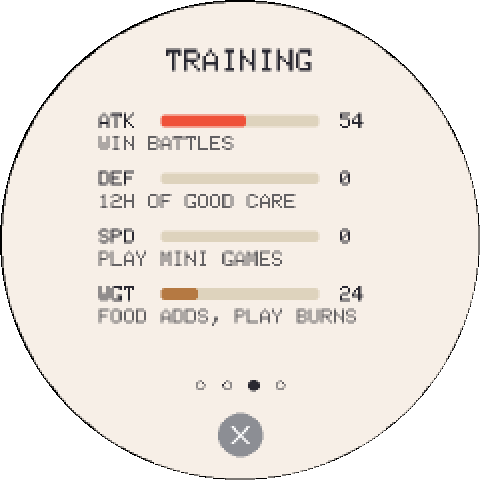
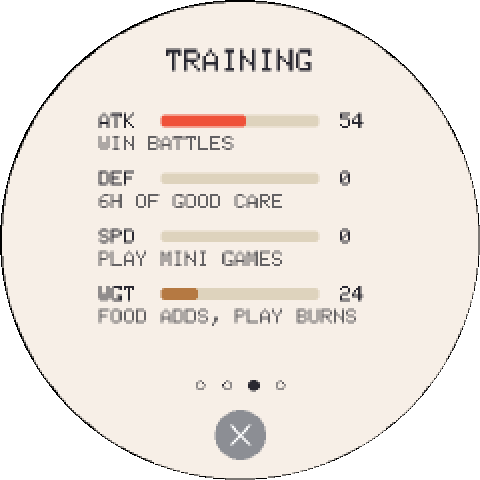
Defense training is fairer: every 6 hours of good care, sleep included
+1 defense every 6 hours of good care instead of 12 awake hours in a row.
Hours asleep count, a need may dip under 40 for up to 15 awake minutes
before the streak starts over, time away counts the same way, and the
streak is saved, so a restart or an update no longer wipes it. Tests for
each rule; the Training page and the docs say 6 hours.

diff --git a/i18n.cpp b/i18n.cpp
@@ -43,7 +43,7 @@ static const char *const STRINGS[LANG_COUNT][STR_COUNT] = {
     "BUSCAR ACTUALIZACION", "Ya est\240 al d\241a", "ACTUALIZAR A v%s", "Actualizando %u%%", "Fall\242 la actualizaci\242n", "%u amigos aqu\241!",
     "Jugar", "Jugar juntos", "Duelo: Qui\202n es?", "%s quiere jugar!", "Prep\240rate...", "T\243", "Lo tienes!", "%s lo tiene!", "Nadie acert\242", "Ganaste!", "Gana %s!", "Empate!", "%s se escap\242!", "Voley Poke Ball", "Tu saque!", "Punto!", "Punto para %s!", "Inclina o arrastra",
     "ZONAS %d/%d", "%s variocolor!",
-    "ENTRENO FUE AL MAXIMO", "ENTRENO", "GANA COMBATES", "12H DE BUEN CUIDADO", "MINIJUEGOS", "COMER SUMA, JUGAR QUEMA",
+    "ENTRENO FUE AL MAXIMO", "ENTRENO", "GANA COMBATES", "6H DE BUEN CUIDADO", "MINIJUEGOS", "COMER SUMA, JUGAR QUEMA",
     "BONUS DE GRUPO", "GASTO ENERGIA", "%u MIN", "PS", "%s trajo un caramelo!", "Para despedirte luego,", "manten pulsado tu Pokemon.",
     "No pudiste huir!",
   },
@@ -83,7 +83,7 @@ static const char *const STRINGS[LANG_COUNT][STR_COUNT] = {
     "CHECK FOR UPDATE", "Up to date", "UPDATE TO v%s", "Updating %u%%", "Update failed", "%u buddies are here!",
     "Play", "Play together", "Who's That? Showdown", "%s wants to play!", "Get ready...", "You", "You got it!", "%s got it!", "Nobody got it", "You win!", "%s wins!", "It's a draw!", "%s got away!", "Poke Ball Volley", "Your serve!", "Point!", "%s scores!", "Tilt or drag to move",
     "ZONES %d/%d", "Shiny %s!",
-    "ATK TRAINING MAXED", "TRAINING", "WIN BATTLES", "12H OF GOOD CARE", "PLAY MINI GAMES", "FOOD ADDS, PLAY BURNS",
+    "ATK TRAINING MAXED", "TRAINING", "WIN BATTLES", "6H OF GOOD CARE", "PLAY MINI GAMES", "FOOD ADDS, PLAY BURNS",
     "PARTY BOOST", "ENERGY DRAIN", "%u MIN", "HP", "%s brought a candy!", "To say goodbye later,", "press and hold your Pokemon.",
     "Couldn't get away!",
   },
@@ -123,7 +123,7 @@ static const char *const STRINGS[LANG_COUNT][STR_COUNT] = {
     "MISE \205 JOUR ?", "D\202j\205 \205 jour", "INSTALLER v%s", "Mise \205 jour %u%%", "\220chec de mise \205 jour", "%u copains sont l\205 !",
     "Jouer", "Jouer ensemble", "Duel: Qui est-ce?", "%s veut jouer!", "Pr\202pare-toi...", "Toi", "Trouv\202!", "%s a trouv\202!", "Personne n\'a trouv\202", "Gagn\202!", "%s gagne!", "Egalit\202!", "%s s\'est enfui!", "Volley Poke Ball", "A toi de servir!", "Point!", "Point pour %s!", "Penche ou glisse",
     "ZONES %d/%d", "%s chromatique!",
-    "ENTRAINEMENT ATQ AU MAX", "ENTRAINEMENT", "GAGNE DES COMBATS", "12H DE BONS SOINS", "MINI-JEUX", "MANGER GROSSIT, JOUER BRULE",
+    "ENTRAINEMENT ATQ AU MAX", "ENTRAINEMENT", "GAGNE DES COMBATS", "6H DE BONS SOINS", "MINI-JEUX", "MANGER GROSSIT, JOUER BRULE",
     "BONUS D'EQUIPE", "PERTE ENERGIE", "%u MIN", "PV", "%s apporte un bonbon!", "Pour lui dire au revoir,", "maintiens ton Pokemon.",
     "Fuite ratee!",
   },
@@ -168,7 +168,7 @@ static const char *const STRINGS[LANG_COUNT][STR_COUNT] = {
     "NACH UPDATE SUCHEN", "Aktuell", "UPDATE AUF v%s", "Update l\204uft %u%%", "Update fehlgeschlagen", "%u Kumpel sind da!",
     "Spielen", "Zusammen spielen", "Duell: Wer ist das?", "%s will spielen!", "Mach dich bereit...", "Du", "Richtig!", "%s war schneller!", "Niemand wusste es", "Gewonnen!", "%s gewinnt!", "Unentschieden!", "%s ist entkommen!", "Poke-Ball-Volley", "Du schl\204gst auf!", "Punkt!", "Punkt f\201r %s!", "Neigen oder ziehen",
     "ZONEN %d/%d", "Schillerndes %s!",
-    "ANG-TRAINING MAXIMAL", "TRAINING", "SIEGE IM KAMPF", "12 STD. GUTE PFLEGE", "MINISPIELE", "ESSEN RAUF, SPIELEN RUNTER",
+    "ANG-TRAINING MAXIMAL", "TRAINING", "SIEGE IM KAMPF", "6 STD. GUTE PFLEGE", "MINISPIELE", "ESSEN RAUF, SPIELEN RUNTER",
     "PARTY-BONUS", "ENERGIEVERBRAUCH", "%u MIN", "KP", "%s bringt ein Bonbon!", "Zum Abschied sp\204ter", "halte dein Pokemon gedr\201ckt.",
     "Flucht misslang!",
   },
@@ -208,7 +208,7 @@ static const char *const STRINGS[LANG_COUNT][STR_COUNT] = {
     "CERCA AGGIORNAMENTI", "Gi\205 aggiornato", "AGGIORNA A v%s", "Aggiornamento %u%%", "Aggiornamento fallito", "%u amici sono qui!",
     "Gioca", "Giochiamo insieme", "Sfida: Chi \212?", "%s vuole giocare!", "Pronti...", "Tu", "Indovinato!", "%s ha indovinato!", "Nessuno l\'ha preso", "Hai vinto!", "Vince %s!", "Pareggio!", "%s \212 scappato!", "Pallavolo Poke Ball", "Battuta tua!", "Punto!", "Punto a %s!", "Inclina o trascina",
     "ZONE %d/%d", "%s cromatico!",
-    "ALLENAMENTO ATT AL MASSIMO", "ALLENAMENTO", "VINCI LE BATTAGLIE", "12 ORE DI BUONE CURE", "MINIGIOCHI", "MANGIARE SU, GIOCARE GIU",
+    "ALLENAMENTO ATT AL MASSIMO", "ALLENAMENTO", "VINCI LE BATTAGLIE", "6 ORE DI BUONE CURE", "MINIGIOCHI", "MANGIARE SU, GIOCARE GIU",
     "BONUS SQUADRA", "CALO ENERGIA", "%u MIN", "PS", "%s porta una caramella!", "Per salutarlo dopo,", "tieni premuto il Pokemon.",
     "Fuga fallita!",
   },
@@ -248,7 +248,7 @@ static const char *const STRINGS[LANG_COUNT][STR_COUNT] = {
     "PROCURAR ATUALIZACAO", "J\240 est\240 atualizado", "ATUALIZAR PARA v%s", "A atualizar %u%%", "Falhou a atualizacao", "%u amigos aqui!",
     "Jogar", "Jogar juntos", "Duelo: Quem \202?", "%s quer jogar!", "Prepara-te...", "Tu", "Acertaste!", "%s acertou!", "Ningu\202m acertou", "Ganhaste!", "%s ganha!", "Empate!", "%s escapou!", "Voleibol Poke Ball", "Tu serves!", "Ponto!", "Ponto para %s!", "Inclina ou arrasta",
     "ZONAS %d/%d", "%s brilhante!",
-    "TREINO ATQ NO MAXIMO", "TREINO", "VENCER BATALHAS", "12H DE BOM CUIDADO", "MINIJOGOS", "COMER SOBE, JOGAR QUEIMA",
+    "TREINO ATQ NO MAXIMO", "TREINO", "VENCER BATALHAS", "6H DE BOM CUIDADO", "MINIJOGOS", "COMER SOBE, JOGAR QUEIMA",
     "BONUS DE GRUPO", "GASTO ENERGIA", "%u MIN", "PS", "%s trouxe um doce!", "Para se despedir depois,", "segure seu Pokemon.",
     "Fuga falhou!",
   },
@@ -311,7 +311,7 @@ static const char *const STRINGS[LANG_COUNT][STR_COUNT] = {
     "アップデート", "さいしんです", "v%s にする", "アップデート %u%%", "しっぱいしました", "ともだち %u にん!",
     "あそぶ", "いっしょに あそぶ", "だれだ? たいけつ", "%sが あそびたいって!", "よーい...", "きみ", "せいかい!", "%sが せいかい!", "だれも わからなかった", "きみの かち!", "%sの かち!", "ひきわけ!", "%sに にげられた!", "ボール バレー", "きみの サーブ!", "とくてん!", "%sの とくてん!", "かたむけるか ドラッグ",
     "ゾーン %d/%d", "いろちがいの%s!",
-    "こうげきの くんれん MAX", "くんれん", "バトルに かつ", "12じかん おせわ", "ミニゲーム", "たべると ふえる、あそぶと へる",
+    "こうげきの くんれん MAX", "くんれん", "バトルに かつ", "6じかん おせわ", "ミニゲーム", "たべると ふえる、あそぶと へる",
     "パーティ ボーナス", "つかれかた", "あと %u ふん", "HP", "%sが おかしを くれた!", "あとで おわかれするには", "ポケモンを ながおししてね",
     "にげられない!",
   },
@@ -356,7 +356,7 @@ static const char *const STRINGS[LANG_COUNT][STR_COUNT] = {
     "업데이트 확인", "최신 버전", "v%s 로 업데이트", "업데이트 중 %u%%", "업데이트 실패", "친구 %u명이 왔어요!",
     "놀기", "함께 놀기", "누구일까? 대결", "%s: 같이 놀래요!", "준비...", "나", "정답!", "%s 정답!", "아무도 못 맞췄어요", "내가 이겼다!", "%s 승리!", "무승부!", "%s: 도망쳤다!", "몬스터볼 배구", "내 서브!", "득점!", "%s 득점!", "기울이거나 끌기",
     "지역 %d/%d", "이로치 %s!",
-    "공격 훈련 최대", "훈련", "배틀 승리", "12시간 잘 돌보기", "미니게임", "먹으면 늘고, 놀면 줄어요",
+    "공격 훈련 최대", "훈련", "배틀 승리", "6시간 잘 돌보기", "미니게임", "먹으면 늘고, 놀면 줄어요",
     "파티 보너스", "에너지 소모", "%u분 남음", "HP", "%s 사탕을 줬어요!", "나중에 작별하려면", "포켓몬을 길게 눌러 주세요",
     "도망칠 수 없다!",
   },

diff --git a/pet.cpp b/pet.cpp
@@ -82,12 +82,14 @@ void Pet::syncClock(uint32_t nowEpoch) {
         joy = dropTo(joy, 1, 35);
       }
       if (ageMinutes % 3 == 0) hygiene = dropTo(hygiene, 1, 45);
+      careMinute(true);
       continue;
     }
     fullness = dropTo(fullness, 2, 15);
     energy = dropTo(energy, 1, 15);
     hygiene = dropTo(hygiene, 1, 15);
     joy = dropTo(joy, 1, 15);
+    careMinute(false);
   }
   if (!isEgg()) {
     if (!sleeping) {  // no pooping while sleeping
@@ -113,6 +115,22 @@ void Pet::update(uint32_t nowMs) {
   }
 }
 
+// Good care forges defense: every GOOD_CARE_MIN minutes of it = +1 DEF. Sleep counts (needs dip
+// overnight by design, and waking it starts the grace again); awake, a need under 40 is forgiven for
+// CARE_GRACE_MIN minutes, about the time to notice and feed it, and then the streak starts over.
+void Pet::careMinute(bool asleep) {
+  if (asleep || lowestStat() >= 40) lowTicks = 0;
+  else if (lowTicks <= CARE_GRACE_MIN) lowTicks++;
+  if (lowTicks > CARE_GRACE_MIN) {
+    goodTicks = 0;
+    return;
+  }
+  if (++goodTicks >= GOOD_CARE_MIN) {
+    goodTicks = 0;
+    if (trDef < 100) trDef++;
+  }
+}
+
 void Pet::tick() {
   if (ceremony != CER_NONE) return;  // time stops during the goodbye
   if (eggPick) return;      // same as when picking the starter: the egg has no species yet
@@ -130,7 +148,7 @@ void Pet::tick() {
   // sleep is rest: energy recovers and needs drop MUCH
   // slower than awake and with a floor (it wakes up wanting some cuddles, not at
   // zero, no neglect or runaways). awake: food -2/min, hyg/joy -1/min.
-  // Weight still burns; the good-care streak (goodTicks) is paused.
+  // Weight still burns, and the good-care streak keeps counting.
   if (sleeping) {
     energy = clamp100(energy + 6);
     if (weight > 0 && ageMinutes % (2 * WGT_BURN_MIN) == 0) weight--;
@@ -139,6 +157,7 @@ void Pet::tick() {
       joy = dropTo(joy, 1, 35);
     }
     if (ageMinutes % 3 == 0) hygiene = dropTo(hygiene, 1, 45);
+    careMinute(true);
     checkMedals();  // can still cross a level by age while sleeping
     if (++ticksSinceSave >= 5) pendingSave = true;
     return;
@@ -157,15 +176,7 @@ void Pet::tick() {
   if (weight > 50 && tires) energy = clamp100(energy - 1);
   if (weight > 0 && ageMinutes % WGT_BURN_MIN == 0) weight--;
 
-  // discipline forges defense: 12 h in a row well cared for = +1 DEF
-  if (lowestStat() >= 40) {
-    if (++goodTicks >= 720) {
-      goodTicks = 0;
-      if (trDef < 100) trDef++;
-    }
-  } else {
-    goodTicks = 0;
-  }
+  careMinute(false);
 
   int dJoy = -1;
   if (fullness < 30) dJoy -= 2;
@@ -484,6 +495,7 @@ void Pet::hatch() {
   geneDef = 90 + random(21);
   geneSpe = 90 + random(21);
   trAtk = trDef = trSpe = 0;
+  goodTicks = lowTicks = 0;
   farewellQuiet = false;
   battleWins = 0;
   movesSeen = 1;
@@ -858,6 +870,8 @@ void Pet::save() {
   prefs.putUChar("tatk", trAtk);
   prefs.putUChar("tdef", trDef);
   prefs.putUChar("tspe", trSpe);
+  prefs.putUShort("good", goodTicks);
+  prefs.putUChar("lowt", lowTicks);
   prefs.putBool("bk", berryKnown);
   prefs.putBool("shy", shiny);
   prefs.putBool("eshy", eggShiny);
@@ -916,6 +930,8 @@ void Pet::load() {
   trAtk = prefs.getUChar("tatk", 0);
   trDef = prefs.getUChar("tdef", 0);
   trSpe = prefs.getUChar("tspe", 0);
+  goodTicks = prefs.getUShort("good", 0);
+  lowTicks = prefs.getUChar("lowt", 0);
   berryKnown = prefs.getBool("bk", false);
   shiny = prefs.getBool("shy", false);
   eggShiny = prefs.getBool("eshy", false);

diff --git a/test/test_pet.cpp b/test/test_pet.cpp
@@ -296,15 +296,51 @@ TEST(tick, neglect_cools_bond_without_wiping_it) {
   CHECK_MSG(p.bond == 1, "the bond does not fall below 1");
 }
 
-TEST(tick, good_care_for_12h_builds_defense) {
+TEST(tick, good_care_for_6h_builds_defense) {
   Pet p;
   makePet(p, 4);
   CHECK_EQ(p.trDef, (uint8_t)0);
-  for (int h = 0; h < 720; h++) {  // keep everything >= 40 for 12 h
+  for (int m = 0; m < GOOD_CARE_MIN - 1; m++) {  // keep everything >= 40 for 6 h
     setStats(p, 100, 100, 100, 100);
     advance(p, 1);
   }
+  CHECK_EQ(p.trDef, (uint8_t)0);
+  advance(p, 1);
   CHECK_EQ(p.trDef, (uint8_t)1);
+}
+
+TEST(tick, sleep_counts_toward_defense) {
+  Pet p;
+  makePet(p, 4);
+  for (int m = 0; m < GOOD_CARE_MIN / 2; m++) {
+    setStats(p, 100, 100, 100, 100);
+    advance(p, 1);
+  }
+  p.sleeping = true;  // the other half asleep, with needs dipping overnight as they do
+  setStats(p, 35, 35, 20, 50);
+  advance(p, GOOD_CARE_MIN / 2);
+  CHECK_MSG(p.trDef == 1, "hours asleep count as good care");
+}
+
+TEST(tick, short_dips_under_40_are_forgiven) {
+  Pet p;
+  makePet(p, 4);
+  for (int m = 0; m < 100; m++) { setStats(p, 100, 100, 100, 100); advance(p, 1); }
+  for (int m = 0; m < CARE_GRACE_MIN; m++) { setStats(p, 30, 100, 100, 100); advance(p, 1); }  // hungry for a while
+  CHECK_MSG(p.goodTicks == 100 + CARE_GRACE_MIN, "a dip shorter than the grace keeps the streak");
+  for (int m = 0; m < 5; m++) { setStats(p, 100, 100, 100, 100); advance(p, 1); }
+  for (int m = 0; m <= CARE_GRACE_MIN; m++) { setStats(p, 30, 100, 100, 100); advance(p, 1); }
+  CHECK_MSG(p.goodTicks == 0, "left under 40 longer than the grace: the streak starts over");
+}
+
+TEST(tick, defense_streak_survives_a_restart) {
+  Pet p;
+  makePet(p, 4);
+  for (int m = 0; m < 200; m++) { setStats(p, 100, 100, 100, 100); advance(p, 1); }
+  p.flushSave();
+  Pet q;
+  q.begin();
+  CHECK_EQ(q.goodTicks, (uint16_t)200);
 }
 
 // ---------------------------------------------------------------- levels

diff --git a/pet.h b/pet.h
@@ -8,6 +8,8 @@
 // Game minutes per level. With 60, CHARMANDER evolves at ~16 h
 // of play with perfect care. Lower to 1 to see evolutions instantly.
 #define MINUTES_PER_LEVEL 60
+#define GOOD_CARE_MIN 360  // 6 h of good care (sleep included) = +1 defense training
+#define CARE_GRACE_MIN 15  // a need may stay under 40 this long (awake) before the streak is lost
 #define VISIT_MINUTES 60     // the daily visitor stays this long (awake minutes, kept over sleep and restarts)
 #define BTL_WIN_TRAIN 6      // ATK per battle won
 #define BTL_ENERGY_COST 12
@@ -82,6 +84,8 @@ public:
   // genes (90-110%, rolled at hatching) and training (0-100)
   uint8_t geneAtk = 100, geneDef = 100, geneSpe = 100;
   uint8_t trAtk = 0, trDef = 0, trSpe = 0;
+  uint16_t goodTicks = 0;  // well-cared streak, in minutes (asleep too): forges DEF
+  uint8_t lowTicks = 0;    // awake minutes in a row with a need under 40 (forgiven up to CARE_GRACE_MIN)
   bool berryKnown = false;  // already discovered its favorite berry
   bool shiny = false;       // rare color variant (rolled in the egg)
   uint32_t ageMinutes = 0;
@@ -281,7 +285,7 @@ private:
   bool starterPick = false;     // first game: waiting for the player to pick a starter
   bool eggPick = false;         // new egg: waiting for the player to pick from the pokedex
   uint8_t neglectTicks = 0;
-  uint16_t goodTicks = 0;  // well-cared streak: forges DEF
+  void careMinute(bool asleep);
   uint32_t ceremonyUntil = 0;
   uint8_t bondToday = 0;       // daily cap on bond gain
   uint32_t medalUntil = 0;     // medal celebration on screen

diff --git a/docs/HOW_IT_WORKS.md b/docs/HOW_IT_WORKS.md
@@ -60,7 +60,7 @@ A loss earns nothing: no training and no bond. After a loss, your Pokémon has t
 ## Training
 
 - **Winning a battle** adds attack training (+6 a win).
-- **Every 12 hours in a row of good care** adds defense training (+1). Good care means every need stays at 40 or more.
+- **Every 6 hours of good care** adds defense training (+1). Good care means every need stays at 40 or more. Hours asleep count too, and a need can dip under 40 for up to 15 minutes while it's awake (time to notice and feed it) before the 6 hours start over. The count is saved, so a restart or an update doesn't lose it.
 - **Mini games** add speed training: Tilt Catch, PokeRun and PokeDungeon add 1 for every 5 points.
 - **Weight** isn't training: every berry adds 4 and candy 12 (6 more if it was already 80% full). Games, battles and time burn it off. Over 50, energy drops twice as fast; 20 or less earns the Fit medal.
 
@@ -112,7 +112,7 @@ Joy also drops 2 more per minute while 🍖 is below 30, and 2 more while 🧼 i
 | What | How |
 |---|---|
 | ⬆ **Level** | +1 for every hour of age |
-| 🛡 **Defense** | +1 for every 12 hours in a row with all four needs at 40 or above |
+| 🛡 **Defense** | +1 for every 6 hours with all four needs at 40 or above (asleep counts, short dips are forgiven) |
 | ⚠ **Care mistake** | A need at 10 or below counts as a mistake, at most once an hour, and costs 1 💞 |
 | 🏃 **Running away** | With all four needs at 0 for an hour, it's ready to leave. One bit of care resets the clock. |
 | 👋 **Goodbye** | A fully evolved Pokémon offers a goodbye from 3 days old. Choose to stay together and it won't ask again; hold your finger on it whenever you're ready. |

diff --git a/README.md b/README.md
@@ -100,7 +100,7 @@ Winning trains your Pokémon. Losing earns nothing and leaves it nearly out of e
 Your Pokémon's ATK, DEF and SPD grow as it levels up, and training adds more on top:
 
 - **Winning a battle** adds attack training.
-- **Every 12 hours in a row of good care** (every need at 40 or more) adds defense training.
+- **Every 6 hours of good care** (every need at 40 or more) adds defense training. Sleep counts, and a need can dip under 40 for up to 15 minutes before the 6 hours start over.
 - **Mini games** (Tilt Catch, PokeRun, PokeDungeon) add speed training.
 - **Weight** isn't training: food adds it (candy the most), and games, battles and time burn it off. Over 50, your Pokémon tires twice as fast.
 

diff --git a/CHANGELOG.md b/CHANGELOG.md
@@ -8,6 +8,8 @@ Updating from the [web installer](https://socquique.github.io/TamaPoke/web/)
 
 ## [Unreleased]
 
+- **Defense training is fairer:** good care now adds +1 every 6 hours instead of 12, hours asleep count, a need can dip under 40 for up to 15 minutes before the count starts over, and the count is saved, so a restart or an update no longer wipes it.
+
 ## [1.34] - 2026-11-04
 
 - **PokeWinGochi, the game on Windows:** the same round window as the Mac app, for Windows 10 and 11, in one `.exe` with nothing to install. It meets Knomis, Macs and browsers as buddies, lives in the taskbar's notification area, and checks for its own updates.

diff --git a/webgame/SITE_README.md b/webgame/SITE_README.md
@@ -39,7 +39,7 @@ Tap, hold and swipe the screen, and tilt your phone to aim a Poké Ball. iPhones
 ## Training
 
 - **Winning a battle** adds attack training.
-- **Every 12 hours in a row of good care** adds defense training.
+- **Every 6 hours of good care** adds defense training.
 - **Mini games** add speed training.
 - **Weight** goes up with food (candy the most) and down with play. Over 50, your Pokémon tires twice as fast.
 
